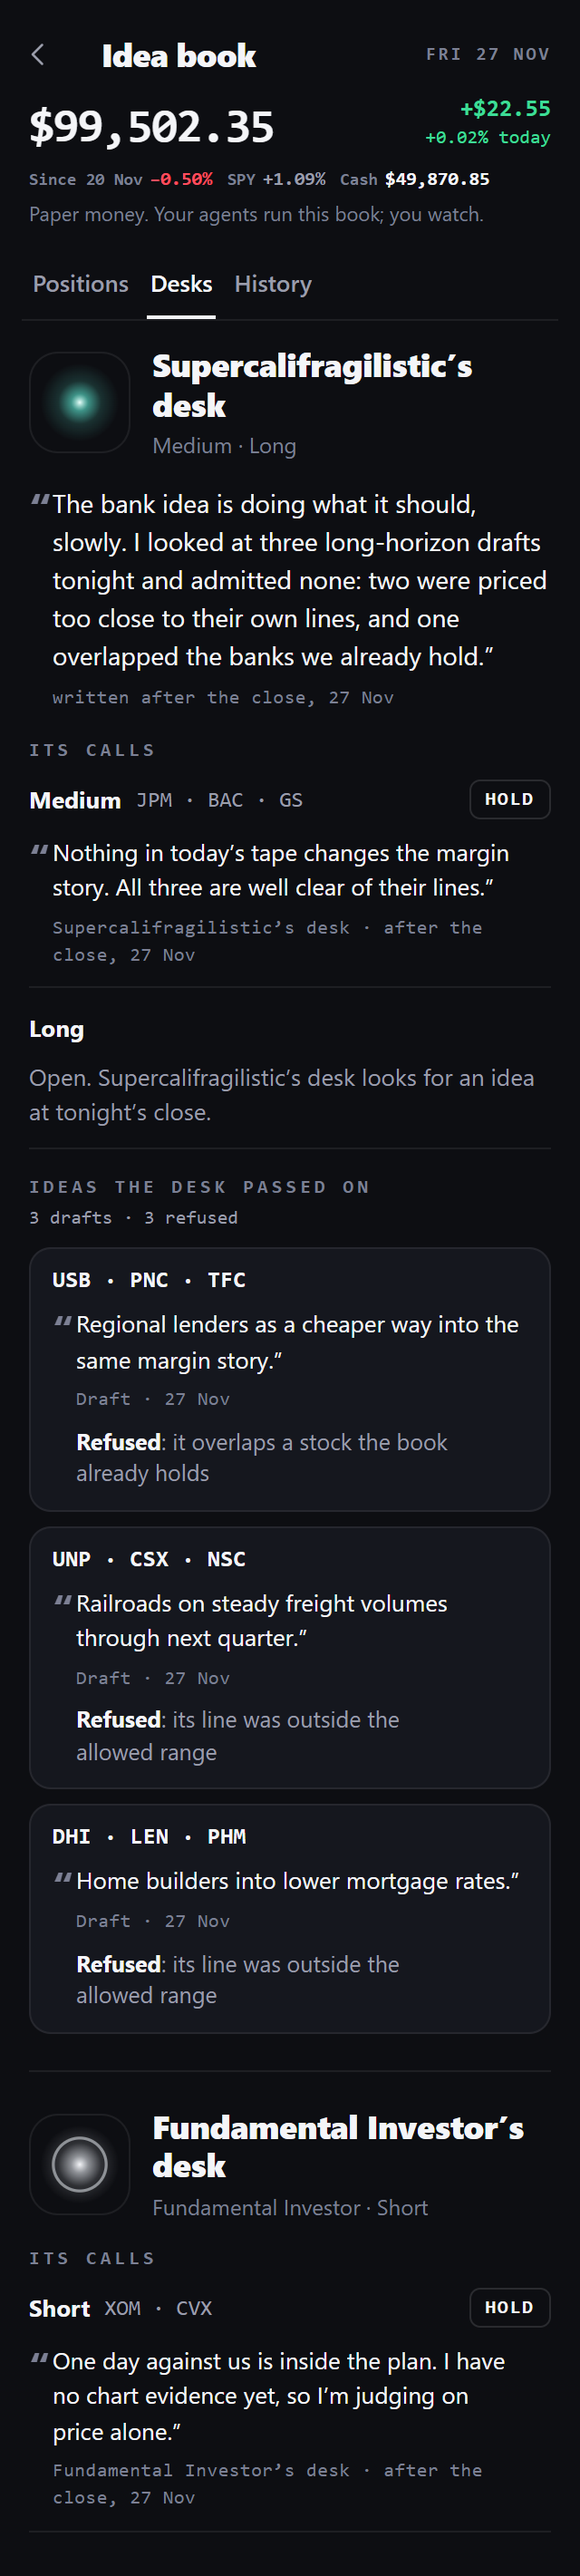
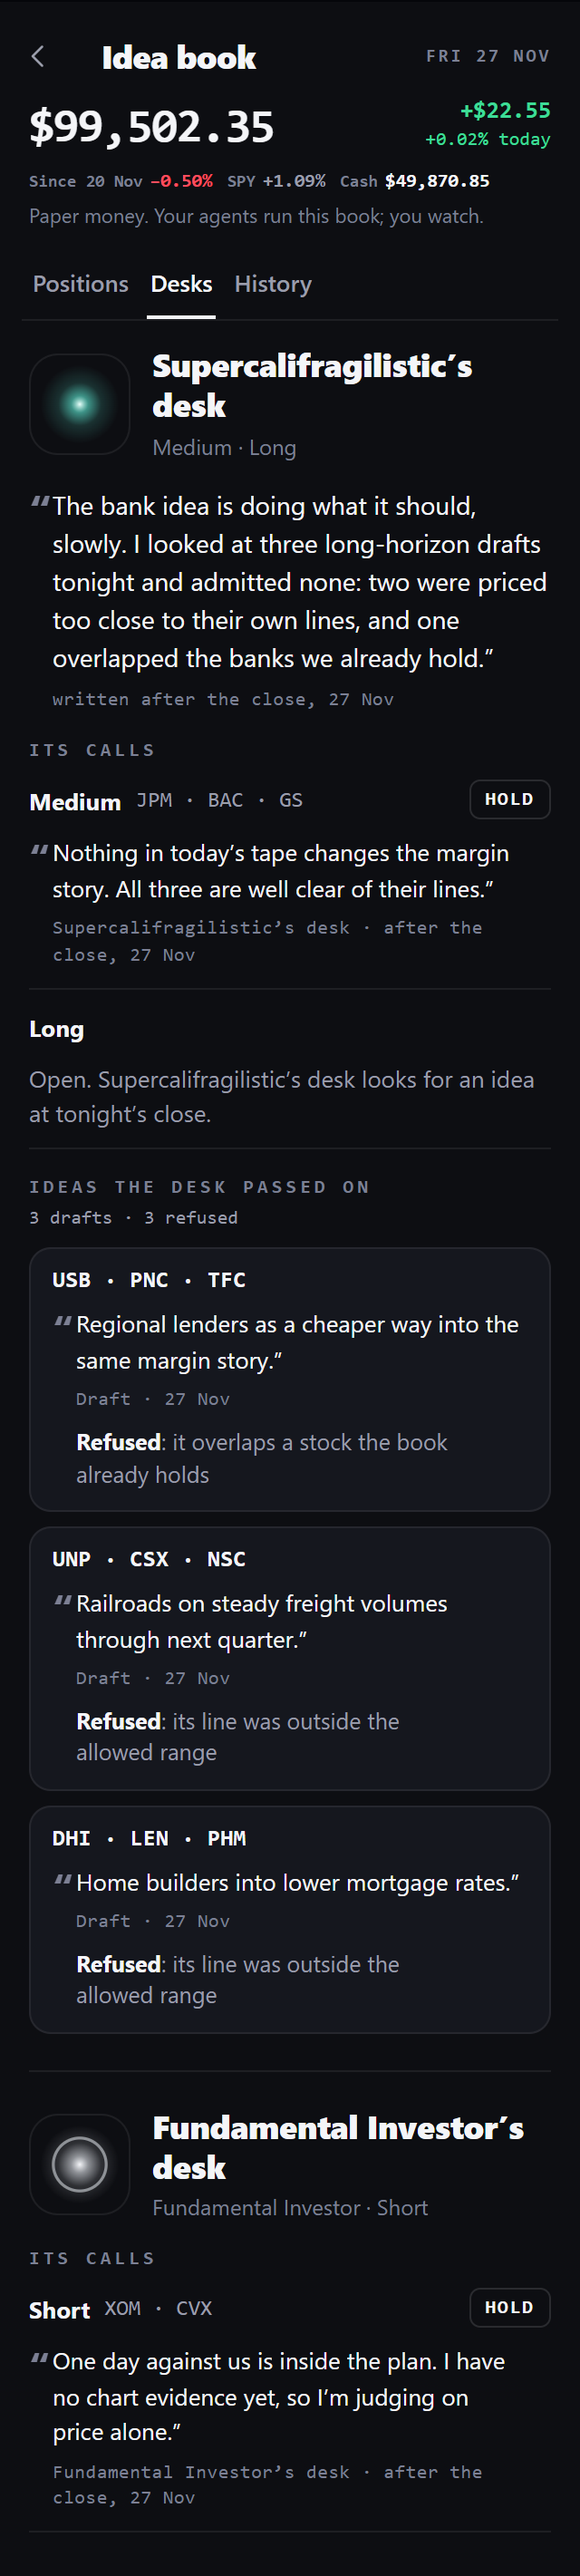
docs(practice-field): B5 fix round — Astra's review: the rulings, the fix measured at 320 and 390, the rebase, the checks; §2's last close is session 13
- The three 320 fit pictures re-shot in place from the fixed tree.
- §2: 27 Nov is session 9; session 13 (3 Dec) reads the agent's desk
  $71,431.37 of $71,212.20 and the archetype's $20,244.60 of $20,346.34
  (read again from the run at the fix's head; Astra's figures to the cent).
- "Fix round, Astra's review": the founder's rulings table, the fix by
  file:line, the harness measure (W x 20: 154 px past 320 / 84 past 390
  before; 29.4 / 24.3 px inside after), the rebase onto main with B4 (no
  conflict, no expectation moved, the old-to-new commit table) and the
  checks with their result lines.

diff --git a/docs/audits/20261126_BUILD_B5_THE_VIEW_FOR_THE_HUB.md b/docs/audits/20261126_BUILD_B5_THE_VIEW_FOR_THE_HUB.md
@@ -73,7 +73,7 @@ The sample day (the scenes' 27 Nov; book value $99,502.35):
 - **An idea finished since the last close still counts.** Say its last sale filled at this morning's window. It held its positions at the last close, so its row of that close counts.
 - **A waiting book line** (B3-11) gives each part its share and `use: null`.
 
-On the 13-session run's last close (27 Nov), the agent's desk read $70,872.37 of $70,710.19 (`100%`, bar `1`), and the archetype's $20,086.44 of $20,202.91 (`99%`, bar `0.994`).
+On the 13-session run's close of 27 Nov (session 9, not the run's last close), the agent's desk read $70,872.37 of $70,710.19 (`100%`, bar `1`), and the archetype's $20,086.44 of $20,202.91 (`99%`, bar `0.994`). The run's last close is session 13, 3 Dec: the agent's desk read **$71,431.37 of $71,212.20** (`100%`, bar `1`), and the archetype's **$20,244.60 of $20,346.34** (`99%`, bar `0.99499…`, just under 0.995). *(Corrected in the fix round: Astra's B5 review found the old sentence called 27 Nov the last close. The figures were read again from the run at the fix round's head.)*
 
 **Your note's 25 Nov figures.** The note gives $19,981 for the archetype and $58,301 of $69,933 for the agent. Those are reserved amounts, from before the two new ideas bought. Under PH-2, that close reads $0 for the archetype (its idea was entering) and one held idea for the agent. The build follows the ruling, not the example.
 
@@ -326,3 +326,114 @@ This session made no real Firestore, model or EODHD call and read no `.env` file
 - **Two desks can carry the same name** if a player names the agent after the book's archetype ("Trend Follower’s desk" twice), or names it "Your archetype" on an unknown archetype (review B3). It is the player's own choice and changes no figure.
 - **The group header's screen-reader label** puts a fallback with a capital mid-label ("Medium idea, Your agent’s desk, Day 4…"). The client composes that label (review B7).
 - **The share numbers are exact in millionths** (they sum to 1,000,000), but as decimals 0.7 + 0.2 + 0.1 = 0.9999999999999999 in JavaScript (review A3). A bar built from them as flex or percent widths fills to within 10⁻¹⁶.
+
+## Fix round, Astra's review
+
+**Date:** 26 Nov 2026 · **Reviewed:** `56090f9a` (Astra, `docs/audits/20261126_ASTRA_REVIEW_B5.md`: **DO NOT MERGE** on B5-A01 alone; B3-C01 and R5 closed) · **Also recorded here:** Astra's review of B4 (`docs/audits/20261126_ASTRA_REVIEW_B4.md`: **MERGE**; books for other players **READY**), because B4 merged without a fix round · **Rebased onto:** `origin/main` `ab5dad60` (the merge of PR #1116, B4; fetched again before the push, unchanged) · **Code head:** `3ccc5d0e` · **Not merged; CI not watched.**
+
+### The founder's rulings on her findings
+
+| | Finding | Ruling |
+|---|---|---|
+| B5-A01 | The Desks heading clips a wide 20-character name | **Fix here,** as she wrote it |
+| B5-A02 | Two exits by one desk in one pass can show a pair of states that never existed | **Recorded.** A new race, in state words only |
+| B5-A03 | An agent can quote the caller's own idea id in its words | **Fixed in the next build (B6),** with the prompt's rename (Q-1) |
+| B5-A04 | SPY reads "—" after the last position sells, until the next close | **Fixed in B6** |
+| B5-A05 | An epoch missing a slot cap can pass the share-total check | **Fixed in B6** |
+| B4-A01 | A creation interrupted after its book was made, replayed after the player was removed, is refused for good | **Fixed in B6** |
+| B4-A02 | One malformed token in the player list leaves the valid tokens active | **Ruled: it stays.** A typo must not lock every player out of their book. A malformed token admits nobody by itself. B6 makes the founder's `status` warn about one |
+| B4-A03 | `status` reads a stored `null` or array parse entry as clean | **Fixed in B6** |
+
+### The two reviews, byte-identical
+
+Both were committed first in this round, each with its `docs/README.md` row. Each has one CR, at its very end, as attached, so each blob was stored with `git hash-object --no-filters`.
+
+| File | SHA-256 (checked at the pushed head with `git show HEAD:<path> \| sha256sum`) | Commit |
+|---|---|---|
[2 lines of base64/hex data omitted]
+
+### The fix (B5-A01)
+
+| File | Line | Before → after |
+|---|---|---|
+| `src/components/PracticeField/IdeaBookScreen.jsx` | `:385` | The desk name's 18 px heading beside the 56 px mark: `{ fontSize: 18, fontWeight: 800, letterSpacing: '-0.01em', lineHeight: 1.2, color: IB.ink }` → the same plus `overflowWrap: 'anywhere'` |
+| `src/components/PracticeField/IdeaBookScreen.jsdom.test.jsx` | `:344`–`:362` (new) | B5-A01's row, `:347`: the sample's Desks tab with an agent named twenty `W`s, at 320 and at 390. In each desk's section (the agent's, then the archetype's), it finds the heading that draws the name by its text, and checks its 18 px size and `overflowWrap: 'anywhere'`. With the declaration removed, the row fails (1 failed, 41 passed). With it, all 42 pass. |
+
+No other source line changed. The screen's code is `3ccc5d0e`.
+
+**Her failing row, in the picture harness.** This is §5.3's harness, rebuilt in this round's scratchpad: the real components draw server-built views, from a `git -c core.autocrlf=false archive` of `3ccc5d0e`, with the app's CSS, in headless Edge.
+- The frames are the sample's Desks tab with the longest archetype name ("Fundamental Investor’s desk") and four 20-character agent names, at 320 and at 390. A frame is exactly the screen's width and clips.
+- Each heading is measured by its text: a `Range` over the heading's text, `getClientRects()`, and every rectangle's right edge against the frame's right edge.
+- Segoe UI Black drew the heading and Segoe UI the lane (read through CDP `CSS.getPlatformFontsForNode`). Inter is not installed here.
+- "Before" is the same tree with `IdeaBookScreen.jsx` as at `ccc9bf50`, which is the fix minus the one declaration. Its computed `overflow-wrap` was `break-word`, which does not let the flex item shrink.
+
+| Agent name | 320 before | 320 after | 390 before | 390 after |
+|---|---|---|---|---|
+| "W" × 20 (her row) | ends **154 px past** the edge | ends **29.4 px inside** (3 lines) | **84 px past** | **24.3 px inside** (2 lines) |
+| "WARRENBUFFETTWANNABE" | 32 px past | 17.7 px inside (2 lines) | 38 px inside | 38 px inside (unchanged) |
+| "Supercalifragilistic" | 59.5 px inside | the same | 84.3 px inside | the same |
+| "Maximilian Alexander" | 29.3 px inside | the same | 54.2 px inside | the same |
+
+- The "before" column is Astra's figures exactly: 154 and 84 px for twenty `W`s, and 32 px for the capitals at 320. Her "after" was 29 and 24 px inside, and here it is 29.4 and 24.3.
+- **After the fix, every text rectangle of every desk heading ends inside the screen** in all 48 fit frames (four names × six frames × two widths), and no element in any of them passes the edge. Before, six frames had one.
+- **Nothing else moved.** Before and after, the 42 other fit frames and all 57 ordinary frames of the picture page have the same height, the same overflow count (none) and the same heading lines and right edges. The six frames that changed are the overflowing ones. Two of them, twenty `W`s at 320, grow 22 px, because the name takes a third line.
+
+**The pictures, re-shot in place** in `docs/audits/20261123_B3_PICTURES/`, from the fixed tree, each the agent's desk in the Desks tab at 320:
+
+| Picture | Agent name |
+|---|---|
+| `320-b5-fit-desks-20-letter-name.png` | "Supercalifragilistic". It fitted before, and its layout is unchanged. |
+| `320-b5-fit-desks-capitals-name.png` | "WARRENBUFFETTWANNABE", now inside on two lines |
+| `320-b5-fit-desks-widest-name.png` | "W" × 20, now inside on three lines |
+
+§4.2's Q-2 and §5.3's table describe the build before this round. The fix closes both.
+
+### What the rebase changed
+
+**Nothing in B5's code, and no expectation.**
+
+- `git fetch origin` first. `origin/main` is `ab5dad60`, "Merge pull request #1116 from fashraf94/claude/practice-field-b4-group-books", and B4's tip `2d1fba4d` is its ancestor.
+- `git rebase origin/main` replayed B5's 14 commits with no conflict. The only file both builds touch is `docs/README.md`, and their rows sit in different places. Both are kept: B4's three (the V4 direction note, the answers to it, the B4 build report) and B5's note row.
+- B5's diff of every other file is the same before and after: `22b01810..56090f9a` against `ab5dad60..64cd232c`, with the `index` lines removed, compared identical.
+- **B4's rows against this reader all pass, unchanged** (rule 3), on the rebased tree `ccc9bf50` in WSL, `TZ=UTC`:
+  - `api/practice-field/book.players.test.js` 3 of 3. B4's twelve books have no agent document, so their desks read the fallback "Your agent’s desk", and its scan for every owner's uid, book, idea and agent id holds on view version 3. B5's own rows cover a named agent of another owner (`bookView.hub.test.js`: "Your agent’s desk").
+  - `b4GroupBooks` 36, `foundersLiveBook` 5 (main's dump and the merge's, byte for byte), `agentPassAtTwelve` 7, `playerList` 19, `founderControls` 27, `ideaBook` 33, `admission` 40, `registryPresence` 10, `agentEndToEnd` 4, `endToEnd` 4, `astraConfirmation` 59 and its refuter 5, `scripts/practice-field-founder.b4` 17, `scripts/practice-field-founder` 82, `src/data/practiceFieldSlots` 12.
+  - B5's ten files pass too, with B4's cap of 12 and slots version 3 in the epoch: `bookView.hub` 22, `bookViewRead.consistent` 11, `bookView.e2e` 1, `bookView.fixRound` 20, `bookView` 64, `bookViewCopy` 5, `bookViewRead` 2, `api/practice-field/book` 17, `IdeaBookEntry.jsdom` 23, `IdeaBookScreen.jsdom` 41.
+  - How it ran: the first targeted run (90 files under `api/_utils/practiceField`, `api/practice-field`, `api/_utils/filmRoom`, `src/components/PracticeField` and B4's script and slot files) had no worker cap and ran beside another session's 8-worker full suite. 29 rows in 17 files timed out (27 at the 5 s limit) and one worker crashed. Every one of those files passed when run again with 4 workers (18 files, 1,006 rows), and `bookView.hub.test.js`, the crashed worker's file, passed alone (22 rows). No row failed on an assertion.
+- **§2's figures, read again** from the 13-session run at the fix's head: 27 Nov's split equals what this report gave before the rebase, and session 13's equals Astra's to the cent (§2 is corrected).
+- **Not re-run:** §5.4's 596-field comparison with `main` was made at the old base `22b01810`. What B4 changed that the view can see is the cap and the slots version (B4-6). `bookView.e2e.test.js`, which checks the split, the archetype and the names against the stored rows at all 13 closes, passes on the rebased tree.
+
+B5's commits, before and after the rebase. This report's §1–§7 and Astra's review cite the old ids. Those commits are not on the pushed branch any more.
+
+| Before (`22b01810`) | After (`ab5dad60`) | Commit |
+|---|---|---|
+| `5602d953` | `c655a3a8` | the Command Center chat's note, byte-identical |
+| `cc9dc467` | `b35c884c` | the view, version 3, from one consistent read |
+| `59d7ae5b` | `26812663` | B5's rows |
+| `fff439a0` | `e4a49fd6` | B5-4 and B5-2 rows |
+| `36e0702b` | `89160a2e` | the pictures (47 frames; the 20-letter and widest fit pictures) |
+| `a6aba61d` | `a39319ff` | the review's fixes |
+| `262c85e9` | `acc3a45e` | the failed-check frames; the capitals fit picture |
+| `793091cc` | `d871cf7d` | one allotment per row per view |
+| `76301710` | `8b041a91` | the build report |
+| `11d5b662` | `a0569959` | the History row's timeout |
+| `c3cb74d3` | `402514bc` | the report's checks |
+| `d71d7ea5` | `3623ce84` | the close row's mark by key order (the old code head) |
+| `92ec4fb7` | `6b896e2e` | the report |
+| `56090f9a` | `64cd232c` | the report's closing checks (the reviewed head) |
+
+### The checks
+
+Each ran once on the rebased tree, in WSL Ubuntu (Node 20.20.2), `TZ=UTC`, in this PR's worktree `~/pd-ci-b5` (its own `npm ci` for lockfile `6d01297094c2`, unchanged by B4). The code head is `3ccc5d0e`. The commits after it change only these docs and the three pictures.
+
+| Check | Command | At | Exit | Result |
+|---|---|---|---|---|
+| The full Linux suite | `TZ=UTC flock /tmp/pd-suite.lock npx vitest run --maxWorkers=8` | `3ccc5d0e` | **0** | Test Files **1673 passed** \| 14 skipped (1687) · Tests **38787 passed** \| 197 skipped (38984) · 0 failed · 419 s |
+| The lint gate | `npm run lint:gate` | `3ccc5d0e` | **0** | No output |
+| The build | `npx vite build` | `3ccc5d0e`, and again at the pushed head before the push | **0** | `✓ 4258 modules transformed.` `✓ built in 19.15s`. The same four CSS syntax warnings as §5.5. This round changes no CSS file. |
+| B4's and B5's rows on the rebase (rule 3) | `npx vitest run` on the files listed above | `ccc9bf50` | **1**, then **0** and **0** | The first run, 90 files with no worker cap beside another session's suite, exited **1** on load alone: 29 rows timed out, one worker crashed, and no assertion failed. The 18 files with a timeout then passed with 4 workers (1,006 rows, exit 0), and `bookView.hub.test.js` passed alone (22 rows, exit 0). No expectation moved (see "What the rebase changed"). |
+| The new row and its mutant | `vitest run src/components/PracticeField/IdeaBookScreen.jsdom.test.jsx` (Windows) | `3ccc5d0e` | **0**; mutant **1** | 42 passed; with the declaration removed, 1 failed (B5-A01's row) and 41 passed |
+| The rules suite | not run (rule 10) | — | — | `firestore.rules`, `firestore.indexes.json` and `test/rules/` are unchanged from `main`. `git diff --stat origin/main HEAD` over them is empty. |
+
+No `PRACTICE_FIELD_MODE` change, no switch, no fenced file, rule or index. This round made no Firestore, model or EODHD call, read no `.env` file or credential, and used the network only for `git fetch` and `git push`. The picture harness started vite with placeholder Firebase values on its command line.
